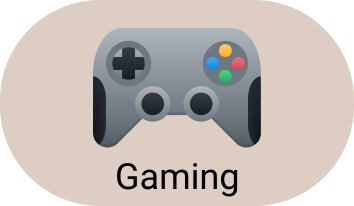
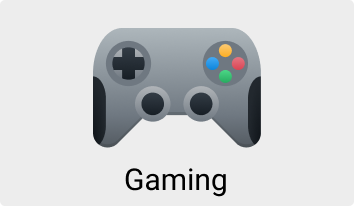
styling and design update

diff --git a/stlye.css b/stlye.css
@@ -9,7 +9,6 @@ body {
   margin: 0;
   min-height: 100vh;
   font-family: "Roboto", sans-serif;
-  background-color: whitesmoke;
 }
 
 /* Messages Stylings */
@@ -17,7 +16,7 @@ body {
 .success-msg,
 .warning-msg,
 .error-msg {
-  margin: 5px 60px;
+  margin: 5px 75px;
   padding: 10px 10px;
   border-radius: 5px;
   font-size: 1.2rem;
@@ -136,7 +135,7 @@ h2 {
 
 .homeLinks {
   background-color: #444f5e;
-  color: whitesmoke;
+  color: white;
   border: 2px solid #444f5e;
   border-radius: 5px;
   padding: 10px;
@@ -147,8 +146,9 @@ h2 {
 }
 
 .homeLinks:hover {
-  background-color: whitesmoke;
+  background-color: white;
   color: #21272e;
+  border: 2px solid #000000;
 }
 
 .links a,
@@ -160,7 +160,8 @@ h2 {
 .homeImage {
   width: 19vw;
   height: auto;
-  filter: brightness(0.98);
+  border: 3px solid #727171;
+  border-radius: 5px;
 }
 
 .flex-container {
@@ -173,11 +174,15 @@ h2 {
   align-content: center;
 }
 
+#home-cards {
+  border-bottom: 2px solid #e8e8e8;
+}
+
 #home-cards > div,
 #tv-cards > div,
 #computer-cards > div,
 #phone-cards > div {
-  margin: 50px 70px;
+  margin: 43px 70px;
 }
 
 .flex-items:nth-child(1) {
@@ -239,14 +244,14 @@ figure h4 {
 }
 
 #randomBtn {
-  width: 22%;
+  width: 20%;
   margin: auto;
   height: 45px;
   cursor: pointer;
   color: white;
   background: #444f5e;
   border: 2px solid #444f5e;
-  border-radius: 20px;
+  border-radius: 5px;
   font-family: "Roboto", sans-serif;
   border: none;
   font-size: 1.5rem;
@@ -254,8 +259,8 @@ figure h4 {
 }
 
 #randomBtn:hover {
-  border: 2px solid #444f5e;
-  background-color: whitesmoke;
+  border: 2px solid #000000;
+  background-color: white;
   color: #21272e;
 }
 
@@ -374,7 +379,7 @@ legend {
   font-size: 20px;
 }
 
-@media screen and (max-width: 1000px) {
+@media screen and (max-width: 1200px) {
   .content {
     width: 100%;
     height: auto;
@@ -526,5 +531,17 @@ legend {
     padding-top: 20px;
     padding-bottom: 20px;
     font-size: 20px;
+  }
+}
+
+@media screen and (min-width: 1500px) {
+  .homeImage {
+    width: 16vw;
+  }
+  #home-cards > div,
+  #tv-cards > div,
+  #computer-cards > div,
+  #phone-cards > div {
+    margin: 50px 95px;
   }
 }
